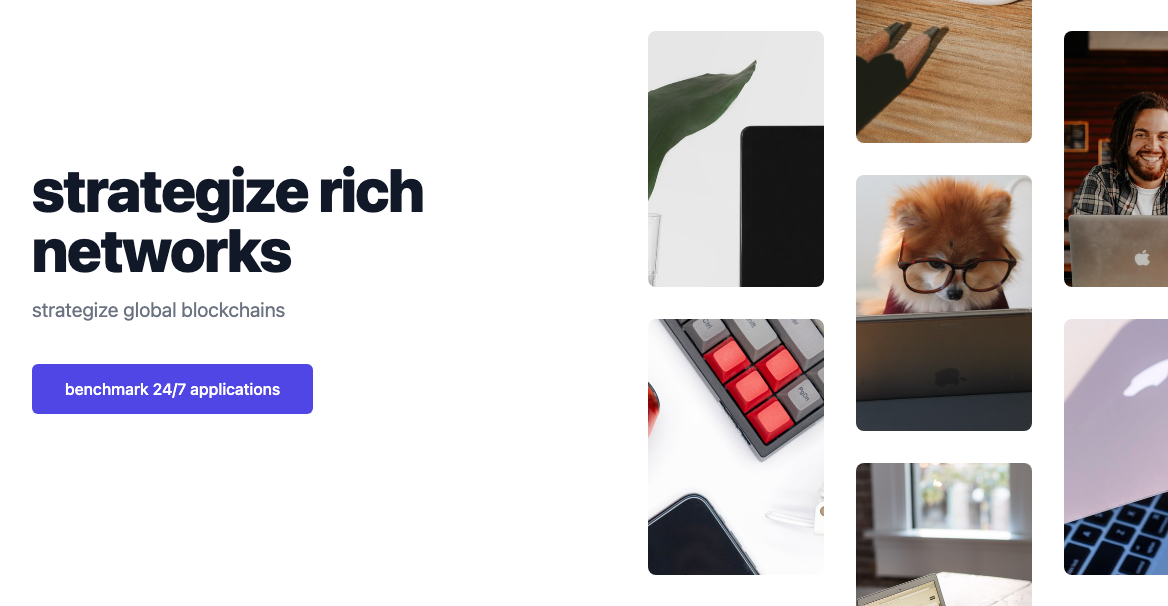
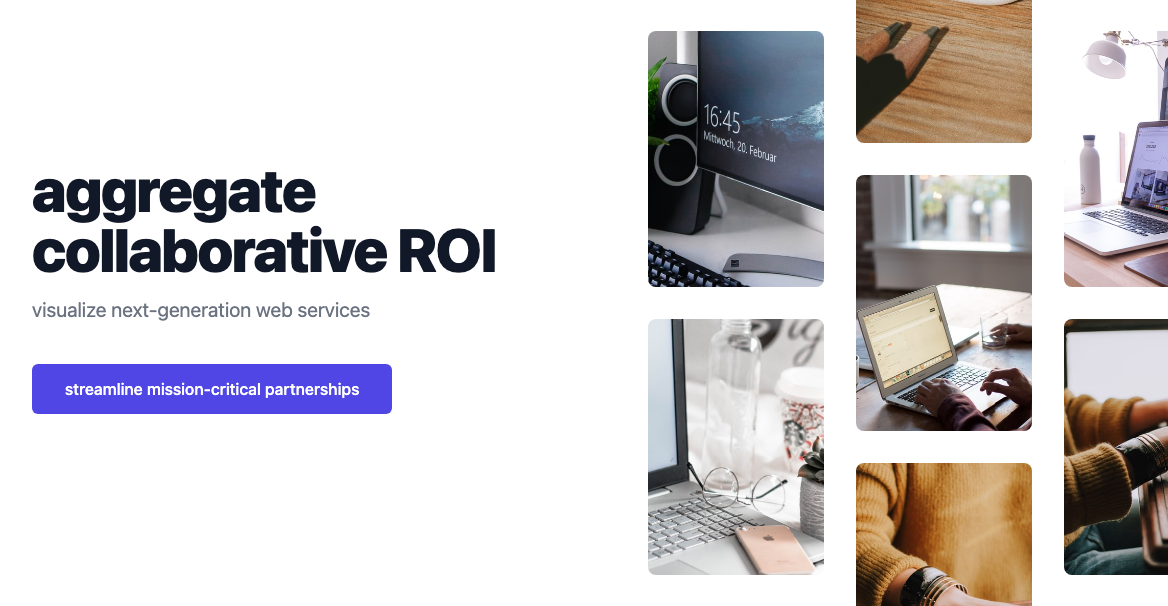
initial commit

diff --git a/slices/ProductListWithCta/index.js b/slices/ProductListWithCta/index.js
@@ -1,0 +1,89 @@
+import React from 'react'
+import { RichText } from 'prismic-reactjs'
+import SliceResolver from '../../sm-resolver'
+
+const products = [
+  {
+    id: 1,
+    name: 'SmartPic 2000',
+    color: 'Black',
+    price: '$7500',
+    href: '#',
+    imageSrc: 'https://images.unsplash.com/photo-1502920917128-1aa500764cbd?ixlib=rb-1.2.1&ixid=MnwxMjA3fDB8MHxwaG90by1wYWdlfHx8fGVufDB8fHx8&auto=format&fit=crop&w=1400&q=80',
+    imageAlt: 'SmartPic 2000',
+  },
+  {
+    id: 2,
+    name: 'Artman 500',
+    color: 'Black',
+    price: '$5000',
+    href: '#',
+    imageSrc: 'https://images.unsplash.com/photo-1516961642265-531546e84af2?ixid=MnwxMjA3fDB8MHxzZWFyY2h8M3x8Y2FtZXJhfGVufDB8fDB8fA%3D%3D&ixlib=rb-1.2.1&auto=format&fit=crop&w=800&q=60',
+    imageAlt: 'Artman 500',
+  },
+  {
+    id: 3,
+    name: 'Quicky v2',
+    color: 'Black',
+    price: '$2000',
+    href: '#',
+    imageSrc: 'https://images.unsplash.com/photo-1516962126636-27ad087061cc?ixid=MnwxMjA3fDB8MHxzZWFyY2h8NDh8fGNhbWVyYXxlbnwwfHwwfHw%3D&ixlib=rb-1.2.1&auto=format&fit=crop&w=800&q=60',
+    imageAlt: 'Quicky v2',
+  },
+  {
+    id: 4,
+    name: 'PicBoy Pocket',
+    color: 'Black',
+    price: '$950',
+    href: '#',
+    imageSrc: 'https://images.unsplash.com/photo-1566863244489-a5e7946f46f1?ixid=MnwxMjA3fDB8MHxzZWFyY2h8ODF8fGNhbWVyYXxlbnwwfHwwfHw%3D&ixlib=rb-1.2.1&auto=format&fit=crop&w=800&q=60',
+    imageAlt: 'PocketPicBoy',
+  },
+  // More products...
+]
+
+const ProductListWithCta = ({ slice }) => (
+  <section>
+    <div className="bg-white">
+      <div className="max-w-2xl mx-auto py-16 px-4 sm:py-24 sm:px-6 lg:max-w-7xl lg:px-8">
+        <div className="md:flex md:items-center md:justify-between">
+          <h2 className="text-2xl font-extrabold tracking-tight text-gray-900">{RichText.asText(slice.primary.title)}</h2>
+          <a href="#" className="hidden text-sm font-medium text-indigo-600 hover:text-indigo-500 md:block">
+            {RichText.asText(slice.primary.description)}<span aria-hidden="true"> &rarr;</span>
+          </a>
+        </div>
+
+        <div className="mt-6 grid grid-cols-2 gap-x-4 gap-y-10 sm:gap-x-6 md:grid-cols-4 md:gap-y-0 lg:gap-x-8">
+          {slice.items.map((product) => (
+            <div key={product.topProduct.id} className="group relative">
+              <div className="w-full h-56 bg-gray-200 rounded-md overflow-hidden group-hover:opacity-75 lg:h-72 xl:h-80">
+                <img
+                  src={product.topProduct.imageSrc}
+                  alt={product.topProduct.imageAlt}
+                  className="w-full h-full object-center object-cover"
+                />
+              </div>
+              <h3 className="mt-4 text-sm text-gray-700">
+                <a href={product.topProduct.href}>
+                  <span className="absolute inset-0" />
+                  {product.topProduct.name}
+                </a>
+              </h3>
+              <p className="mt-1 text-sm text-gray-500">{product.topProduct.color}</p>
+              <p className="mt-1 text-sm font-medium text-gray-900">{product.topProduct.price}</p>
+            </div>
+          ))}
+        </div>
+
+        <div className="mt-8 text-sm md:hidden">
+          <a href="#" className="font-medium text-indigo-600 hover:text-indigo-500">
+            Shop the collection<span aria-hidden="true"> &rarr;</span>
+          </a>
+        </div>
+      </div>
+    </div>
+  )
+  </section>
+)
+
+export default ProductListWithCta

diff --git a/.slicemachine/assets/slices/PromoSectionImageTiles/index.stories.js b/.slicemachine/assets/slices/PromoSectionImageTiles/index.stories.js
@@ -5,5 +5,5 @@ export default {
 }
 
 
-export const _DefaultSlice = () => <MyComponent slice={{"variation":"default-slice","name":"Default slice","slice_type":"promo_section_image_tiles","items":[],"primary":{"title":"strategize rich networks","subtitle":"strategize global blockchains","image1":{"dimensions":{"width":900,"height":500},"alt":"Placeholder image","copyright":null,"url":"https://images.unsplash.com/photo-1471897488648-5eae4ac6686b?w=900&h=500&fit=crop"},"image2":{"dimensions":{"width":900,"height":500},"alt":"Placeholder image","copyright":null,"url":"https://images.unsplash.com/photo-1587653915936-5623ea0b949a?w=900&h=500&fit=crop"},"image3":{"dimensions":{"width":900,"height":500},"alt":"Placeholder image","copyright":null,"url":"https://images.unsplash.com/photo-1589321599763-d66926c29613?w=900&h=500&fit=crop"},"image4":{"dimensions":{"width":900,"height":500},"alt":"Placeholder image","copyright":null,"url":"https://images.unsplash.com/photo-1589652717521-10c0d092dea9?w=900&h=500&fit=crop"},"image5":{"dimensions":{"width":900,"height":500},"alt":"Placeholder image","copyright":null,"url":"https://images.unsplash.com/photo-1448932223592-d1fc686e76ea?w=900&h=500&fit=crop"},"image6":{"dimensions":{"width":900,"height":500},"alt":"Placeholder image","copyright":null,"url":"https://images.unsplash.com/photo-1601933973783-43cf8a7d4c5f?w=900&h=500&fit=crop"},"image7":{"dimensions":{"width":900,"height":500},"alt":"Placeholder image","copyright":null,"url":"https://images.unsplash.com/photo-1606248897732-2c5ffe759c04?w=900&h=500&fit=crop"},"link":{"link_type":"Web","url":"http://twitter.com"},"linkLabel":"benchmark 24/7 applications"},"id":"_DefaultSlice"}} />
+export const _DefaultSlice = () => <MyComponent slice={{"variation":"default-slice","name":"Default slice","slice_type":"promo_section_image_tiles","items":[],"primary":{"title":"aggregate collaborative ROI","subtitle":"visualize next-generation web services","image1":{"dimensions":{"width":900,"height":500},"alt":"Placeholder image","copyright":null,"url":"https://images.unsplash.com/photo-1551739440-5dd934d3a94a?w=900&h=500&fit=crop"},"image2":{"dimensions":{"width":900,"height":500},"alt":"Placeholder image","copyright":null,"url":"https://images.unsplash.com/photo-1544731612-de7f96afe55f?w=900&h=500&fit=crop"},"image3":{"dimensions":{"width":900,"height":500},"alt":"Placeholder image","copyright":null,"url":"https://images.unsplash.com/photo-1589321599763-d66926c29613?w=900&h=500&fit=crop"},"image4":{"dimensions":{"width":900,"height":500},"alt":"Placeholder image","copyright":null,"url":"https://images.unsplash.com/photo-1448932223592-d1fc686e76ea?w=900&h=500&fit=crop"},"image5":{"dimensions":{"width":900,"height":500},"alt":"Placeholder image","copyright":null,"url":"https://images.unsplash.com/photo-1515378791036-0648a3ef77b2?w=900&h=500&fit=crop"},"image6":{"dimensions":{"width":900,"height":500},"alt":"Placeholder image","copyright":null,"url":"https://images.unsplash.com/photo-1499951360447-b19be8fe80f5?w=900&h=500&fit=crop"},"image7":{"dimensions":{"width":900,"height":500},"alt":"Placeholder image","copyright":null,"url":"https://images.unsplash.com/photo-1515378960530-7c0da6231fb1?w=900&h=500&fit=crop"},"link":{"link_type":"Web","url":"http://google.com"},"linkLabel":"streamline mission-critical partnerships"},"id":"_DefaultSlice"}} />
 _DefaultSlice.storyName = 'Default slice'

diff --git a/.slicemachine/assets/slices/ProductListWithCta/index.stories.js b/.slicemachine/assets/slices/ProductListWithCta/index.stories.js
@@ -1,0 +1,9 @@
+import MyComponent from '../../../../slices/ProductListWithCta';
+
+export default {
+  title: 'slices/ProductListWithCta'
+}
+
+
+export const _DefaultSlice = () => <MyComponent slice={{"variation":"default-slice","name":"Default slice","slice_type":"product_list_with_cta","items":[{"test":"matrix distributed schemas"},{"test":"brand killer niches"},{"test":"implement e-business users"}],"primary":{"title":[{"type":"heading1","text":"Matrix world-class ROI","spans":[]}],"description":[{"type":"paragraph","text":"Sint sint eiusmod deserunt ullamco irure. In ad velit aliquip ut.","spans":[]}]},"id":"_DefaultSlice"}} />
+_DefaultSlice.storyName = 'Default slice'

diff --git a/tailwind.config.js b/tailwind.config.js
@@ -1,8 +1,14 @@
+const colors = require('tailwindcss/colors')
+
 module.exports = {
   purge: [],
   darkMode: false, // or 'media' or 'class'
   theme: {
-    extend: {},
+    extend: {
+      colors: {
+        orange: colors.orange,
+      },
+    },
   },
   variants: {
     extend: {},

diff --git a/slices/index.js b/slices/index.js
@@ -1,4 +1,5 @@
 // This file is generated by Prismic local builder. Update with care!
 
 export { default as HeroBanner } from './HeroBanner'
+export { default as ProductListWithCta } from './ProductListWithCta'
 export { default as PromoSectionImageTiles } from './PromoSectionImageTiles'

diff --git a/components/Header.js b/components/Header.js
@@ -135,7 +135,6 @@ function classNames(...classes) {
 
 export default function Header({ menu = [], categories =[] }){
   const [open, setOpen] = useState(false)
-  console.log(menu.data)
 
   return (
     <div className="bg-white">
